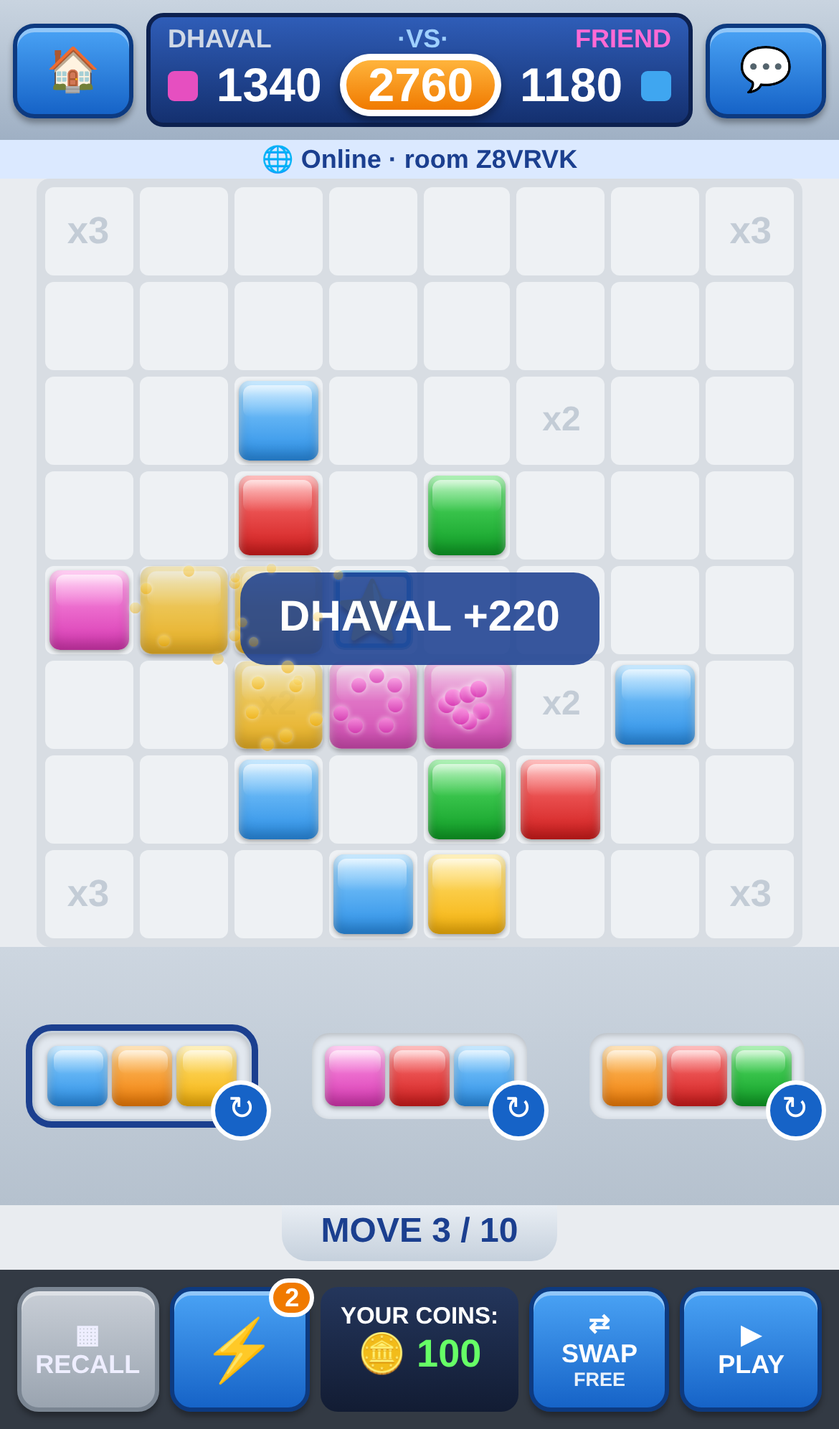
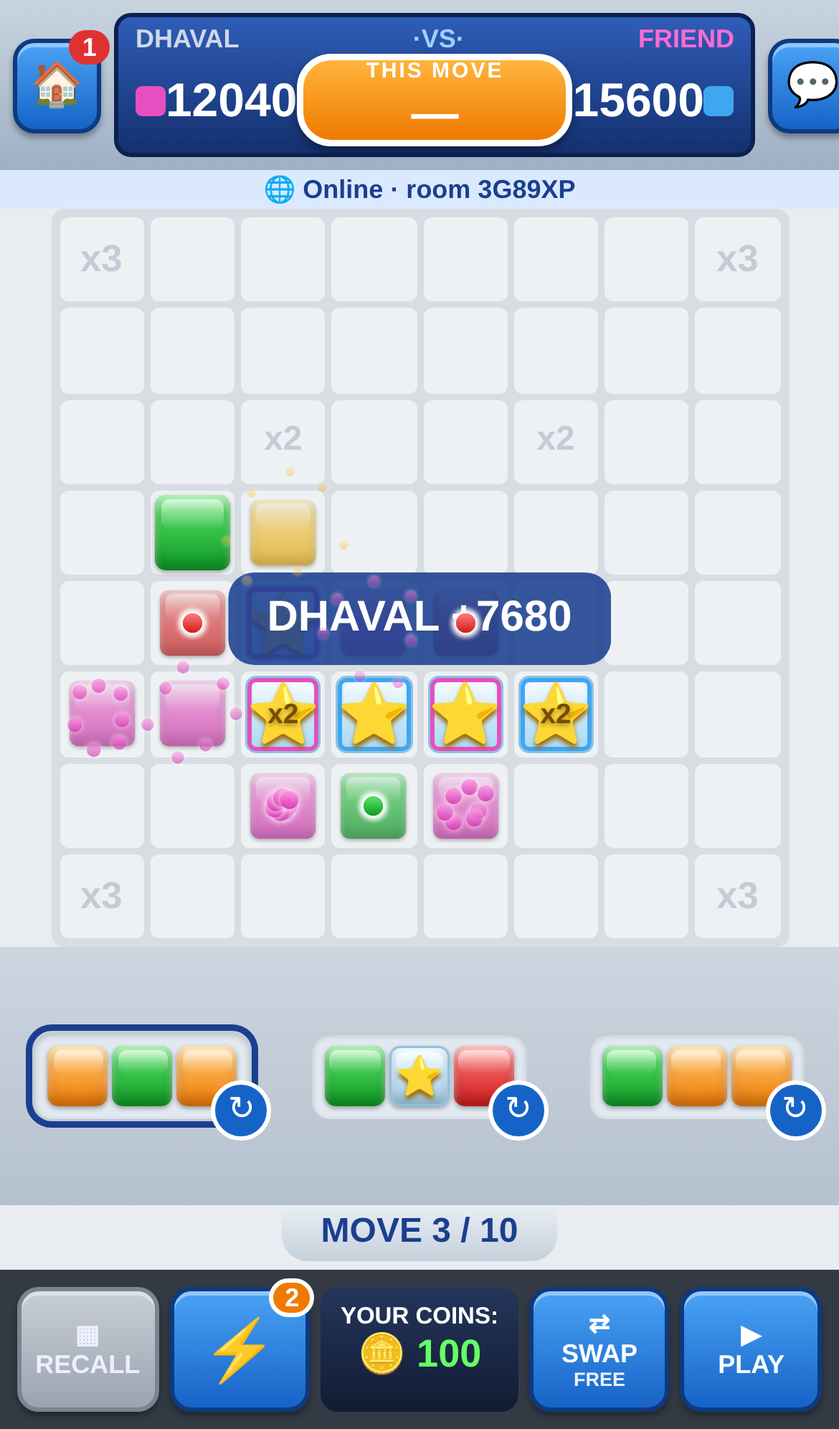
v22: multiple simultaneous online games (My online games list, background polling, turn badges, rematch)

diff --git a/app.js b/app.js
@@ -56,7 +56,7 @@ function render(){setTimeout(fit,0);clearTimeout(render.sv);render.sv=setTimeout
  $('n0').textContent=NAMES()[0];$('n1').textContent=NAMES()[1];$('n0').className=g.turn===0?'on':'';$('n1').className=g.turn===1?'on':'';
  const mv=Math.min(g.moves[g.turn]+1,10),fin=L.isFinal(g)&&!g.over;$('banner').textContent=g.over?'GAME OVER':(fin?'FINAL MOVE!':'MOVE '+mv+' / 10');$('banner').className=fin?'final':'';
  const fr=g.power[g.turn];const bf=bx();$('badge').textContent=bf>1?'x'+bf:(fr>0?fr:'50🪙');$('power').className='btn'+(boost?' on':'');const cw=g.mode==='pvp'?g.turn:meIdx();$('coinN').textContent=g.coins[cw];
- $('swapc').textContent=g.swaps[g.turn]>0?'FREE':'50🪙';if(profile.coins!==g.coins[meIdx()]){profile.coins=g.coins[meIdx()];saveProfile();}
+ $('swapc').textContent=g.swaps[g.turn]>0?'FREE':'50🪙';if(!isOn()&&profile.coins!==g.coins[meIdx()]){profile.coins=g.coins[meIdx()];saveProfile();}
  const h=human();$('play').disabled=!h;$('recall').disabled=!h||!pieces.length;$('swap').disabled=!h||firstFree()==null||!L.canSwap(g);$('power').disabled=!h||(!boost&&!L.canPower(g)&&L.charges(g)<1);}
 function bn(){return boost?L.norm(boost):{d:0,t:0};}function bx(){const b=bn();return Math.pow(2,b.d)*Math.pow(3,b.t);}
 function tryPlace(s,r,c){if(s===null||!human()||usedSet(s)||!g.racks[g.turn][3*s])return false;const t=tilesAt(s,r,c);
@@ -124,7 +124,7 @@ function next(){sel=g.over?null:firstFree();render();if(g.over)return finish();a
  if(g.turn===1){busy=true;render();setTimeout(()=>{const m=L.aiPlan(g,profile.difficulty);if(m.swap&&L.swap(g,0)){busy=false;say('Computer swapped a piece');next();return;}if(m.blast){boom(m.blast);say('Computer used '+(m.blast.type==='bomb'?'💣 Bomb':'✚ Cross Blast'));}pieces=[];for(let i=0;i<m.pl.length;i+=3)pieces.push({s:Math.floor(m.pl[i].slot/3),tiles:m.pl.slice(i,i+3)});render();
   setTimeout(()=>{const res=L.commit(g,placed(),m.boost);if(m.boost){const b=L.norm(m.boost);say('Computer ⚡ x'+Math.pow(2,b.d)*Math.pow(3,b.t));}pop(res);markOwner(1);pieces=[];busy=false;say(res.score?'Computer +'+res.score:'Computer passes');next();},800);},500);}}
 function finish(){clearSave();const n=NAMES(),w=g.winner,me=meIdx();
- $('result').innerHTML=(w<0?'Tie game!':n[w]+' wins!')+'<br>'+g.scores[0]+' – '+g.scores[1]+'<br>'+(g.mode!=='pvp'&&w===me?'+10 coins! ':'')+'Coins: '+g.coins[me];profile.coins=g.coins[me];profile.games++;if(w===me)profile.wins++;if(isOn()){Online.leave();Online.clear();}saveProfile();showProfile();$('overlay').classList.add('show');}
+ $('result').innerHTML=(w<0?'Tie game!':n[w]+' wins!')+'<br>'+g.scores[0]+' – '+g.scores[1]+'<br>'+(g.mode!=='pvp'&&w===me?'+10 coins! ':'')+'Coins: '+g.coins[me];profile.coins=g.coins[me];profile.games++;if(w===me)profile.wins++;if(isOn()){const S=Online.st,o=Online.saved(S.code);if(o&&o.counted){profile.games--;if(w===me)profile.wins--;}else profile.coins=Math.max(0,profile.coins+g.coins[me]-(g.coinsStart||g.coins)[me]);$('result').innerHTML=$('result').innerHTML.replace(/Coins: \d+/,'Coins: '+profile.coins);Online.persist({over:true,counted:true,winner:w,scores:g.scores.slice()});Online.leave();renderGames();}saveProfile();showProfile();$('overlay').classList.add('show');}
 function start(mode){$('result').innerHTML='';const nm=$('pname').value.trim();if(!nm){$('pname').focus();say('Enter your name first');return;}profile.name=nm;saveProfile();clearSave();g=L.newGame(mode);g.coins[0]=profile.coins;pieces=[];boost=false;busy=false;sel=firstFree();g._live=true;$('overlay').classList.remove('show');render();autosave();}
 // ---- online rooms ----
 function applySilent(a){if(a.type==='commit'){const p=g.turn;L.commit(g,a.pl,a.boost);markOwner(p);}else if(a.type==='swap')L.swap(g,a.s);else if(a.type==='blast')L.blast(g,a.b,a.r,a.c);}
@@ -135,8 +135,8 @@ function remoteAct(a){const p=g.turn;
  next();}
 const pending=[];
 function onMsg(d){const S=Online.st;
- if(d.t==='hello'&&S.host&&!g.started){const seed=Math.floor(Math.random()*2**31);const names=[profile.name,d.name],coins=[profile.coins,+d.coins||100];Online.start(seed,names,coins);beginOnline(seed,names,coins);}
- else if(d.t==='start'&&!S.host&&!(isOn()&&g.started))beginOnline(d.seed,d.names,d.coins);
+ if(d.t==='hello'&&S.host&&S.seed==null){const seed=Math.floor(Math.random()*2**31);const names=[profile.name,d.name],coins=[profile.coins,+d.coins||100];Online.start(seed,names,coins);beginOnline(seed,names,coins);}
+ else if(d.t==='start'&&!S.host&&S.seed==null)beginOnline(d.seed,d.names,d.coins);
  else if(d.t==='act'){if(d.n<S.applied||!isOn())return;if(!pending.some(x=>x.n===d.n))pending.push(d);pending.sort((x,y)=>x.n-y.n);
   while(pending.length&&pending[0].n<S.applied)pending.shift();
   while(pending.length&&pending[0].n===S.applied){const x=pending.shift();Online.record(x.a);remoteAct(x.a);}
@@ -144,31 +144,36 @@ function onMsg(d){const S=Online.st;
  else if(d._old&&d.t!=='act'&&d.t!=='start'&&d.t!=='hello')return;
  else if(d.t==='need'){Online.resend(d.from);}
  else if(d.t==='back'||d.t==='ping'){if(d.t==='back')say(NAMES()[1-meIdx()]+' is back');if(typeof d.have==='number'&&d.have<S.applied)Online.resend(d.have);if(typeof d.have==='number'&&d.have>S.applied)Online.send({t:'need',from:S.applied});updOnl();}
- else if(d.t==='away'){S.lastSeen=0;updOnl();}}
+ else if(d.t==='away'){S.lastSeen=0;updOnl();}
+ else if(d.t==='rematch'&&d.code){Online.persist({rematch:d.code});say('Rematch offered! See My online games');}
+ renderGames();}
 function updOnl(){const el=$('ostat');if(!isOn()||g.over){el.className='';return;}const away=Date.now()-Online.st.lastSeen>45000;el.textContent=away?'⚠ '+NAMES()[1-meIdx()]+' away / reconnecting…':'🌐 Online · room '+Online.st.code;el.className=away?'show away':'show';}
 setInterval(()=>{if(isOn()&&!g.over){if(document.visibilityState==='visible')Online.ping();updOnl();}},25000);
 setInterval(()=>{if(isOn())updOnl();},5000);
 document.addEventListener('visibilitychange',()=>{if(!isOn())return;if(document.visibilityState==='visible'){Online.ping('back');}else Online.ping('away');});
-function beginOnline(seed,names,coins,log){g=L.newGame('pvp',Online.mulberry(seed));g.mode='online';g.names=names;g.coins=coins.slice();g.started=true;Online.setGame(seed,names,coins);(log||[]).forEach(applySilent);
+function beginOnline(seed,names,coins,log){pending.length=0;g=L.newGame('pvp',Online.mulberry(seed));g.mode='online';g.names=names;g.coins=coins.slice();g.coinsStart=coins.slice();g.started=true;Online.setGame(seed,names,coins);(log||[]).forEach(applySilent);
  pieces=[];boost=false;busy=false;sel=firstFree();$('overlay').classList.remove('show');$('onl').classList.remove('show');render();updOnl();say(g.turn===meIdx()?'Your turn!':'Waiting for '+NAMES()[g.turn]+'…');}
 const onlStatus=t=>{$('onlmsg').textContent=t;if(isOn()&&t){$('ostat').textContent='⚠ '+t;$('ostat').className='show away';}else if(isOn())updOnl();};
 $('hostBtn').onclick=()=>{const nm=$('pname').value.trim();if(!nm){$('pname').focus();say('Enter your name first');return;}profile.name=nm;saveProfile();
  const code=Online.host(nm,profile.coins,{msg:onMsg,status:onlStatus});$('onl').classList.add('show');$('onlcode').textContent=code;onlStatus('Share this code. Waiting for a friend to join…');};
 $('joinBtn').onclick=()=>{const nm=$('pname').value.trim();if(!nm){$('pname').focus();say('Enter your name first');return;}profile.name=nm;saveProfile();
  const code=$('joinCode').value.trim().toUpperCase();if(code.length<4){say('Enter the room code');return;}
- Online.join(code,nm,profile.coins,{msg:onMsg,status:onlStatus});$('onl').classList.add('show');$('onlcode').textContent=code;onlStatus('Joining room…');};
-$('onlCancel').onclick=()=>{Online.leave();$('onl').classList.remove('show');};
+ joinRoom(code);};
+function joinRoom(code){const nm=profile.name;if(Online.saved(code)&&!Online.saved(code).over){openGame(code);return;}Online.join(code,nm,profile.coins,{msg:onMsg,status:onlStatus});$('overlay').classList.remove('show');$('onl').classList.add('show');$('onlcode').textContent=code;onlStatus('Joining room…');renderGames();}
+$('onlCancel').onclick=()=>{Online.leave();$('onl').classList.remove('show');renderGames();say('Room kept in My online games');};
 // ---- autosave / resume (local games only) ----
 const SKEY='startiles.save';
 function autosave(){if(!g||!g.started&&g.mode!=='online'&&!g._live)return;if(g.mode==='online'||g.over)return;
  try{const {rng,...rest}=g;localStorage.setItem(SKEY,JSON.stringify({v:1,savedAt:Date.now(),g:rest,pieces,difficulty:profile.difficulty}));}catch(e){}}
 function clearSave(){localStorage.removeItem(SKEY);showResume();}
 function loadSave(){try{return JSON.parse(localStorage.getItem(SKEY));}catch(e){return null;}}
-function showResume(){const os=Online.saved(),ob=$('onlResume');if(ob){ob.style.display=os&&os.seed!=null?'block':'none';if(os)ob.textContent='🌐 Continue online game (room '+os.code+')';}const s=loadSave(),b=$('resumeBtn');if(!b)return;b.style.display=s&&s.g&&!s.g.over?'block':'none';
+function showResume(){const ob=$('onlResume');if(ob)ob.style.display='none';renderGames();const s=loadSave(),b=$('resumeBtn');if(!b)return;b.style.display=s&&s.g&&!s.g.over?'block':'none';
  if(s&&s.g)b.textContent=(g&&g._live&&!g.over?'▶ Continue game (':'▶ Resume game (')+(s.g.mode==='ai'?'vs COMPUTER':'Pass & Play')+', move '+Math.min(10,s.g.moves[0]+1)+'/10)';}
-$('onlResume').onclick=()=>{const s=Online.saved();if(!s)return;$('overlay').classList.remove('show');
+$('onlResume').onclick=()=>openGame((Online.saved()||{}).code);
+function openGame(code){const s=Online.saved(code);if(!s)return;if(s.rematch&&s.over){joinRoom(s.rematch);return;}
+ if(s.seed==null){Online.resume(s,{msg:onMsg,status:onlStatus});$('onl').classList.add('show');$('onlcode').textContent=s.code;onlStatus(s.host?'Share this code. Waiting for a friend to join…':'Joining room…');return;}$('overlay').classList.remove('show');
  if(isOn()&&Online.st.on&&Online.st.code===s.code){render();return;} // still connected: just close the menu
- Online.resume(s,{msg:onMsg,status:onlStatus});beginOnline(s.seed,s.names,s.coins,s.log);updOnl();say('Rejoined room '+s.code+' – catching up…');};
+ Online.resume(s,{msg:onMsg,status:onlStatus});beginOnline(s.seed,s.names,s.coins,s.log);updOnl();say((s.over?'Finished game ':'Rejoined room ')+s.code+(s.over?'':' – catching up…'));if(g.over){$('result').innerHTML=(g.winner<0?'Tie game!':NAMES()[g.winner]+' wins!')+'<br>'+g.scores[0]+' – '+g.scores[1];Online.leave();$('overlay').classList.add('show');renderGames();}}
 $('resumeBtn').onclick=()=>{const s=loadSave();if(!s)return;g=Object.assign(s.g,{rng:Math.random,_live:true});if(s.difficulty)profile.difficulty=s.difficulty;
  pieces=(s.pieces||[]).filter(p=>p&&p.tiles);boost=false;busy=false;aim=null;$('overlay').classList.remove('show');sel=firstFree();
  if(g.mode==='ai'&&g.turn===1){pieces=[];next();}else render();say('Game resumed');};
@@ -184,3 +189,35 @@ $('muteBtn').onclick=()=>{profile.muted=!profile.muted;saveProfile();showProfile
 $('diff').onclick=e=>{const b=e.target.closest('[data-d]');if(!b)return;profile.difficulty=b.dataset.d;saveProfile();showProfile();if(g)render();};
 $('pname').onchange=()=>{profile.name=$('pname').value.trim();saveProfile();if(g)render();};
 g=L.newGame('ai');g.coins[0]=profile.coins;render();showProfile();showResume();$('overlay').classList.add('show');if(!profile.name)setTimeout(()=>$('pname').focus(),300);
+
+// ---- v22: My online games (many rooms at once, Words-With-Friends style) ----
+var gcache;
+function replayGame(o){gcache=gcache||{};if(o.seed==null)return null;const k=o.code+':'+o.seed+':'+(o.log||[]).length;if(gcache[o.code]&&gcache[o.code].k===k)return gcache[o.code].G;
+ const G=L.newGame('pvp',Online.mulberry(o.seed));G.coins=(o.coins||[100,100]).slice();for(const a of o.log||[]){try{if(a.type==='commit')L.commit(G,a.pl,a.boost);else if(a.type==='swap')L.swap(G,a.s);else if(a.type==='blast')L.blast(G,a.b,a.r,a.c);}catch(e){}}
+ gcache[o.code]={k,G};return G;}
+function ago(t){if(!t)return '';const s=(Date.now()-t)/1000;return s<60?'just now':s<3600?Math.floor(s/60)+'m ago':s<86400?Math.floor(s/3600)+'h ago':Math.floor(s/86400)+'d ago';}
+function gameRows(){const m=Online.all(),rows=[];for(const code in m){const o=m[code],G=replayGame(o),me=o.me|0;
+ let st,rank;if(!G){st=o.host?'Waiting for friend':'Joining…';rank=2;}else if(G.over||o.over){st=G.winner<0?'Tie':(G.winner===me?'You won':'You lost');rank=3;}else if(G.turn===me){st='Your turn';rank=0;}else{st='Their turn';rank=1;}
+ rows.push({o,G,me,st,rank,opp:o.names?o.names[1-me]:'—',score:G?G.scores[me]+' – '+G.scores[1-me]:''});}
+ rows.sort((a,b)=>a.rank-b.rank||(b.o.lastAct||0)-(a.o.lastAct||0));return rows;}
+function renderGames(){const el=$('mygames');if(!el)return;const rows=gameRows();const yours=rows.filter(r=>r.rank===0).length;
+ $('menuBtn').dataset.n=yours||'';document.title=(yours?'('+yours+') ':'')+'Star Tiles';
+ if(!rows.length){el.innerHTML='';el.style.display='none';return;}el.style.display='block';
+ el.innerHTML='<div class="mgh">🌐 My online games'+(yours?' <b class="mgn">'+yours+'</b>':'')+'</div>'+rows.map(r=>{const cls=['yt','tt','wt','ov'][r.rank];
+  return '<div class="mg '+cls+'" data-code="'+r.o.code+'"><div class="mgm"><b>vs '+esc(r.opp)+'</b><span class="mgb">'+r.st+'</span><br><small>Room '+r.o.code+(r.score?' · '+r.score:'')+' · '+ago(r.o.lastAct)+'</small></div>'+
+  (r.rank===3?(r.o.rematch?'<button class="mga" data-a="join">Join rematch</button>':'<button class="mga" data-a="rematch">Rematch</button>')+'<button class="mga x" data-a="rm">✕</button>':'')+'</div>';}).join('');}
+function esc(t){return String(t).replace(/[&<>"]/g,c=>({'&':'&amp;','<':'&lt;','>':'&gt;','"':'&quot;'}[c]));}
+document.addEventListener('click',e=>{const row=e.target.closest&&e.target.closest('.mg');if(!row)return;const code=row.dataset.code,a=e.target.dataset&&e.target.dataset.a,o=Online.saved(code);if(!o)return;
+ if(a==='rm'){Online.clear(code);renderGames();return;}
+ if(a==='rematch'){const nm=profile.name||$('pname').value.trim();if(!nm){say('Enter your name first');return;}const nc=Online.host(nm,profile.coins,{msg:onMsg,status:onlStatus});Online.sendTo(code,o.id,{t:'rematch',code:nc});
+  $('overlay').classList.remove('show');$('onl').classList.add('show');$('onlcode').textContent=nc;onlStatus('Rematch room – waiting for '+(o.names?o.names[1-o.me]:'friend')+'…');return;}
+ if(a==='join'){joinRoom(o.rematch);return;}
+ openGame(code);});
+// background poll: rooms you're not looking at; starts hosted games when a friend joins; turn notification
+function onPolled(o){const me=o.me|0;
+ if(o.host&&o.seed==null&&o.helloFrom){const seed=Math.floor(Math.random()*2**31),names=[profile.name,o.helloFrom.name],coins=[profile.coins,+o.helloFrom.coins||100];
+  Online.upd(o.code,x=>{x.seed=seed;x.names=names;x.coins=coins;delete x.helloFrom;x.lastAct=Date.now();});Online.sendTo(o.code,o.id,{t:'start',seed,names,coins});o=Online.saved(o.code);}
+ const G=replayGame(o);if(G&&!G.over&&G.turn===me&&o.notified!==o.log.length){Online.upd(o.code,x=>x.notified=x.log.length);if(!profile.muted)SFX.chime(120);say('🔔 Your turn vs '+(o.names?o.names[1-me]:'friend'));}
+ if(o.rematch&&o.over&&!o.rmNote){Online.upd(o.code,x=>x.rmNote=1);say('🔁 '+(o.names?o.names[1-me]:'Friend')+' wants a rematch');}
+ renderGames();}
+Online.pollAll(onPolled);document.addEventListener('visibilitychange',()=>{if(document.visibilityState==='visible')Online.pollAll(onPolled);});addEventListener('focus',()=>Online.pollAll(onPolled));

diff --git a/online.js b/online.js
@@ -11,19 +11,43 @@ const Online=(function(){
  function listen(){if(st.es)st.es.close();st.since=Date.now();st.es=new EventSource(RELAY+st.topic+'/sse?since=all');
   st.es.onopen=()=>{st.handlers.status&&st.handlers.status('');};
   st.es.onmessage=e=>{let env,d;try{env=JSON.parse(e.data);d=JSON.parse(env.message);}catch(_){return;}if(!d||d.from===st.id)return;
-   if(env.id){if(st.seen.has(env.id))return;st.seen.add(env.id);}d._old=env.time&&env.time*1000<st.since-5000;if(!d._old)st.lastSeen=Date.now();st.handlers.msg&&st.handlers.msg(d);};
+   if(env.id){if(st.seen.has(env.id))return;st.seen.add(env.id);}d._old=env.time&&env.time*1000<st.since-5000;if(!d._old)st.lastSeen=Date.now();st.lastAct=Math.max(st.lastAct||0,(env.time||0)*1000);st.handlers.msg&&st.handlers.msg(d);};
   st.es.onerror=()=>{st.handlers.status&&st.handlers.status('Reconnecting…');};}
- function persist(){if(!st.on||st.seed==null)return;try{localStorage.setItem(SKEY,JSON.stringify({v:1,code:st.code,me:st.me,host:st.host,id:st.id,seed:st.seed,names:st.names,coins:st.coins,log:st.log,savedAt:Date.now()}));}catch(e){}}
- return {st,mulberry,send,persist,
-  saved(){try{return JSON.parse(localStorage.getItem(SKEY));}catch(e){return null;}},
-  clear(){localStorage.removeItem(SKEY);},
-  host(name,coins,h){Object.assign(st,{on:true,host:true,me:0,code:rnd(),applied:0,log:[],seed:null,handlers:h});st.topic='startiles-room-'+st.code;listen();return st.code;},
-  join(code,name,coins,h){Object.assign(st,{on:true,host:false,me:1,code:code.toUpperCase().trim(),applied:0,log:[],seed:null,handlers:h});st.topic='startiles-room-'+st.code;listen();send({t:'hello',name,coins});},
-  resume(s,h){Object.assign(st,{on:true,host:s.host,me:s.me,code:s.code,id:s.id,applied:s.log.length,log:s.log.slice(),seed:s.seed,names:s.names,coins:s.coins,handlers:h});st.topic='startiles-room-'+st.code;
+ // v22: many games at once, stored by room code in GKEY (old single-game SKEY migrated on first read)
+ const GKEY='startiles.online.games';
+ function all(){let m=null;try{m=JSON.parse(localStorage.getItem(GKEY));}catch(e){}if(!m||typeof m!=='object')m={};
+  try{const old=JSON.parse(localStorage.getItem(SKEY));if(old&&old.code&&!m[old.code]){old.lastAct=old.savedAt||Date.now();m[old.code]=old;}if(old){localStorage.removeItem(SKEY);localStorage.setItem(GKEY,JSON.stringify(m));}}catch(e){}return m;}
+ function putAll(m){try{localStorage.setItem(GKEY,JSON.stringify(m));}catch(e){}}
+ function upd(code,f){const m=all();if(!m[code])return;f(m[code]);putAll(m);}
+ function persist(extra){if(!st.on||!st.code)return;const m=all(),o=m[st.code]||{};m[st.code]=Object.assign(o,{v:2,code:st.code,me:st.me,host:st.host,id:st.id,seed:st.seed,names:st.names,coins:st.coins,log:st.log,savedAt:Date.now(),lastAct:Math.max(o.lastAct||0,st.lastAct||0)},extra||{});putAll(m);}
+ // background polling of the rooms that are NOT open (ntfy /json?poll=1&since=<last id>), staggered, with backoff on 429/errors
+ let pollGap=60000,pollT=null,polling=false;
+ async function pollOne(s,h){const since=s.pollId||'all';let r;try{r=await fetch(RELAY+'startiles-room-'+s.code+'/json?poll=1&since='+encodeURIComponent(since));}catch(e){return 'err';}
+  if(r.status===429)return 'limit';if(!r.ok)return 'err';const txt=await r.text();const msgs=[];
+  for(const line of txt.split('\n')){if(!line.trim())continue;let env,d;try{env=JSON.parse(line);if(env.event!=='message')continue;d=JSON.parse(env.message);}catch(e){continue;}msgs.push({env,d});}
+  let changed=false;const m=all(),o=m[s.code];if(!o)return 'ok';
+  for(const {env,d} of msgs){o.pollId=env.id;if(!d||d.from===o.id)continue;o.lastAct=Math.max(o.lastAct||0,(env.time||0)*1000);
+   if(d.t==='act'&&typeof d.n==='number'&&d.n===o.log.length){o.log.push(d.a);changed=true;}
+   else if(d.t==='start'&&o.seed==null&&!o.host){o.seed=d.seed;o.names=d.names;o.coins=d.coins;changed=true;}
+   else if(d.t==='hello'&&o.host&&o.seed==null){o.helloFrom={name:d.name,coins:d.coins};changed=true;}
+   else if(d.t==='rematch'&&d.code){o.rematch=d.code;changed=true;}}
+  putAll(m);if(changed&&h)h(o);return 'ok';}
+ async function pollAll(h){if(polling)return;polling=true;let bad=false;
+  try{const m=all();for(const code in m){if(st.on&&st.code===code)continue;const s=m[code];if(s.removed)continue;
+   const r=await pollOne(s,h);if(r==='limit'){bad=true;break;}if(r==='err')bad=true;await new Promise(z=>setTimeout(z,1200));}}finally{polling=false;}
+  pollGap=bad?Math.min(pollGap*2,600000):60000;clearTimeout(pollT);pollT=setTimeout(()=>pollAll(h),pollGap);}
+ return {st,mulberry,send,persist,all,upd,pollAll,
+  get pollGap(){return pollGap;},
+  saved(code){const m=all();if(code)return m[code]||null;const c=st.code&&m[st.code]?st.code:Object.keys(m)[0];return c?m[c]:null;},
+  clear(code){const m=all();delete m[code||st.code];putAll(m);},
+  sendTo(code,id,msg){msg.from=id;return fetch(RELAY+'startiles-room-'+code,{method:'POST',body:JSON.stringify(msg)}).catch(()=>{});},
+  host(name,coins,h){Object.assign(st,{on:true,host:true,me:0,code:rnd(),applied:0,log:[],seed:null,handlers:h});st.topic='startiles-room-'+st.code;st.id=Math.random().toString(36).slice(2,10);st.seen=new Set();st.lastAct=Date.now();listen();persist();return st.code;},
+  join(code,name,coins,h){Object.assign(st,{on:true,host:false,me:1,code:code.toUpperCase().trim(),applied:0,log:[],seed:null,handlers:h});st.topic='startiles-room-'+st.code;st.id=Math.random().toString(36).slice(2,10);st.seen=new Set();st.lastAct=Date.now();listen();persist();send({t:'hello',name,coins});},
+  resume(s,h){Object.assign(st,{on:true,host:s.host,me:s.me,code:s.code,id:s.id,applied:(s.log||[]).length,log:(s.log||[]).slice(),seed:s.seed,lastAct:s.lastAct||0,names:s.names,coins:s.coins,handlers:h});st.topic='startiles-room-'+st.code;
    st.seen=new Set();listen();send({t:'back',have:st.applied});},
   setGame(seed,names,coins){st.seed=seed;st.names=names;st.coins=coins;persist();},
   start(seed,names,coins){send({t:'start',seed,names,coins});},
-  act(a){const n=st.applied;st.applied++;st.log.push(a);persist();send({t:'act',n,a});},
+  act(a){const n=st.applied;st.applied++;st.log.push(a);st.lastAct=Date.now();persist();send({t:'act',n,a});},
   record(a){st.applied++;st.log.push(a);persist();},
   resend(from){for(let n=from;n<st.log.length;n++)send({t:'act',n,a:st.log[n]});},
   ping(t){if(st.on)send({t:t||'ping',have:st.applied});},

diff --git a/index.html b/index.html
@@ -1,7 +1,7 @@
 <!DOCTYPE html><html><head><meta charset="utf-8"><meta name="viewport" content="width=device-width,initial-scale=1,viewport-fit=cover,user-scalable=no">
 <title>Star Tiles</title><link rel="manifest" href="manifest.json"><link rel="apple-touch-icon" href="icon-180.png">
 <meta name="apple-mobile-web-app-capable" content="yes"><meta name="mobile-web-app-capable" content="yes"><meta name="apple-mobile-web-app-status-bar-style" content="black"><meta name="theme-color" content="#1b3f8f">
-<link rel="stylesheet" href="style.css?v=21"></head><body>
+<link rel="stylesheet" href="style.css?v=22"></head><body>
 <div id="app">
 <header><button class="btn sq" id="menuBtn" aria-label="Menu">🏠</button>
 <div id="hud"><div class="names"><span id="n0" class="p0">DHAVAL P</span><span class="vs">·VS·</span><span id="n1">COMPUTER</span></div>
@@ -21,14 +21,14 @@
 <button class="btn big cancel" data-p="cancel">Cancel</button></div></div>
 <div id="tbar"><span id="tmsg">Tap a target square</span><button class="btn" id="tgo" disabled>BLAST!</button><button class="btn cancel" id="tno">Cancel</button></div>
 <div id="onl"><div class="card"><h2>🌐 Online room</h2><div id="onlcode" class="code">——</div><p id="onlmsg"></p><button class="btn big cancel" id="onlCancel">Cancel</button></div></div>
-<div id="overlay" class="show"><div class="card"><h1>⭐ Star Tiles</h1><button class="btn big resume" id="onlResume" style="display:none">🌐 Continue online game</button><button class="btn big resume" id="resumeBtn" style="display:none">▶ Resume game</button><p id="result"></p><details class="howto"><summary>How to play</summary><p id="msg">It takes 3 to score: connect 3+ same-color tiles to score and clear them. Stars from your rack are wild and permanent. Drag your 3-tile pieces onto the board (tap again or ↻ to rotate). Place 0–3 pieces anywhere they fit on empty squares, then PLAY. ⚡ Power-ups (2 per game, 1 per move): Double Points, Bomb (3×3) or Cross Blast (row + column). Blasts clear everything in the area, even stars, but score nothing. Coins: start with 100, win = +10. Each game has 1 free swap and 2 free power-ups; extra swaps or power-ups cost 50 coins. 10 moves each — higher score wins!</p></details>
+<div id="overlay" class="show"><div class="card"><h1>⭐ Star Tiles</h1><button class="btn big resume" id="onlResume" style="display:none">🌐 Continue online game</button><div id="mygames" style="display:none"></div><button class="btn big resume" id="resumeBtn" style="display:none">▶ Resume game</button><p id="result"></p><details class="howto"><summary>How to play</summary><p id="msg">It takes 3 to score: connect 3+ same-color tiles to score and clear them. Stars from your rack are wild and permanent. Drag your 3-tile pieces onto the board (tap again or ↻ to rotate). Place 0–3 pieces anywhere they fit on empty squares, then PLAY. ⚡ Power-ups (2 per game, 1 per move): Double Points, Bomb (3×3) or Cross Blast (row + column). Blasts clear everything in the area, even stars, but score nothing. Coins: start with 100, win = +10. Each game has 1 free swap and 2 free power-ups; extra swaps or power-ups cost 50 coins. 10 moves each — higher score wins!</p></details>
 <label class="pname">Your name <input id="pname" maxlength="14" placeholder="Enter your name" autocomplete="off"></label>
 <div class="pstat" id="pstat"></div><button class="btn mute" id="muteBtn">🔊 Sound: ON</button>
 <div class="diff" id="diff"><button data-d="easy">EASY</button><button data-d="medium">MEDIUM</button><button data-d="hard">HARD</button><button data-d="expert">EXPERT</button></div>
 <button class="btn big" id="vsAI">Play vs COMPUTER</button><button class="btn big" id="vsP">Pass &amp; Play (2 players)</button>
 <div class="online"><button class="btn big" id="hostBtn">🌐 Host online game</button>
-<div class="joinrow"><input id="joinCode" maxlength="6" placeholder="ROOM CODE" autocapitalize="characters" autocomplete="off"><button class="btn" id="joinBtn">Join</button></div></div><div id="ver">v21</div></div></div>
-</div><script src="logic.js?v=21"></script><script src="online.js?v=21"></script><script src="app.js?v=21"></script>
+<div class="joinrow"><input id="joinCode" maxlength="6" placeholder="ROOM CODE" autocapitalize="characters" autocomplete="off"><button class="btn" id="joinBtn">Join</button></div></div><div id="ver">v22</div></div></div>
+</div><script src="logic.js?v=22"></script><script src="online.js?v=22"></script><script src="app.js?v=22"></script>
 <script>
 if('serviceWorker'in navigator){let reloaded=false;const had=!!navigator.serviceWorker.controller;
  navigator.serviceWorker.addEventListener('controllerchange',()=>{if(reloaded||!had)return;reloaded=true;try{window.autosave&&autosave();}catch(e){}location.reload();});

diff --git a/style.css b/style.css
@@ -148,3 +148,13 @@ html,body{position:fixed;inset:0;width:100%;height:100%;overflow:hidden;overscro
 #potprev,#potprev:empty{visibility:visible!important;font-size:22px;line-height:24px;min-height:24px;background:none!important;color:#fff;animation:none}
 #potprev.hot{color:#fff;text-shadow:0 0 6px #fff8}
 #pot{width:128px;min-width:128px;max-width:128px}#potprev{max-width:124px}
+
+/* v22 My online games */
+#mygames{margin:6px 0 10px;text-align:left;max-height:38vh;overflow-y:auto;touch-action:pan-y!important}
+.mgh{font-weight:900;color:#1b3f8f;margin:2px 0 4px}.mgn{background:#e8590c;color:#fff;border-radius:9px;padding:0 7px}
+.mg{display:flex;align-items:center;gap:6px;background:#fff;border-radius:10px;padding:7px 9px;margin:5px 0;border:2px solid #cdd6e0;cursor:pointer}
+.mg.yt{border-color:#2f9e44;background:#ebfbee}.mg.ov{opacity:.85}.mgm{flex:1;min-width:0}.mgm small{color:#556}
+.mgb{margin-left:6px;font-size:11px;font-weight:900;border-radius:8px;padding:1px 6px;background:#adb5bd;color:#fff}
+.yt .mgb{background:#2f9e44}.tt .mgb{background:#1c7ed6}.wt .mgb{background:#f59f00}
+.mga{border:0;border-radius:8px;background:#1c7ed6;color:#fff;font-weight:800;padding:6px 8px}.mga.x{background:#c92a2a}
+#menuBtn{position:relative}#menuBtn[data-n]:not([data-n=""])::after{content:attr(data-n);position:absolute;top:-6px;right:-6px;background:#e03131;color:#fff;font-size:12px;font-weight:900;border-radius:10px;padding:1px 6px}

diff --git a/sw.js b/sw.js
@@ -1,4 +1,4 @@
-const V='v21',C='star-tiles-'+V,F=['./','index.html','style.css?v=21','app.js?v=21','logic.js?v=21','online.js?v=21','manifest.json','icon-180.png','icon-192.png','icon-512.png'];
+const V='v22',C='star-tiles-'+V,F=['./','index.html','style.css?v=22','app.js?v=22','logic.js?v=22','online.js?v=22','manifest.json','icon-180.png','icon-192.png','icon-512.png'];
 self.addEventListener('install',e=>{self.skipWaiting();e.waitUntil(caches.open(C).then(c=>c.addAll(F)).catch(()=>{}));});
 self.addEventListener('activate',e=>e.waitUntil(caches.keys().then(k=>Promise.all(k.filter(x=>x!==C).map(x=>caches.delete(x)))).then(()=>self.clients.claim())));
 // network-first for pages/code; cache only as offline fallback
